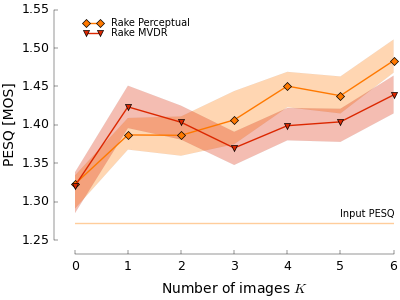
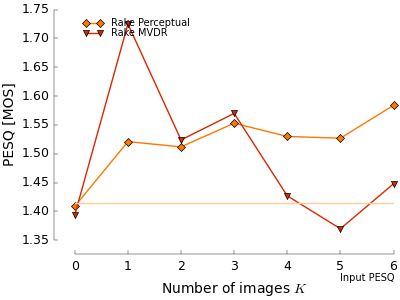
Amended README to add PESQ compilation instructions, as well as section on experimental results.

diff --git a/figure_Experiment.py b/figure_Experiment.py
@@ -222,16 +222,7 @@ if __name__ == '__main__':
     # This is the location of simulated/measured RIRs
     #################################################
 
-    rir_type = 'measured'
-    #rir_type = 'simulated'
-
-    if rir_type == 'measured':
-        data_folder = 'Experiment_Data/'
-    elif rir_type == 'simulated':
-        data_folder = 'Raven/'
-    else:
-        raise NameError('RIR type needs to be ''measured'' or ''simulated''.')
-
+    data_folder = 'BC329_RIR_8kHz/'
 
     # read in room size, microphones and sources locations
     ######################################################
@@ -264,39 +255,28 @@ if __name__ == '__main__':
     # PREPARE PARAMETERS
     ####################
 
-    if rir_type == 'measured':
+    Loops = np.minimum(n_src*(n_src-1), Loops)
+    
+    good_src_index = np.zeros(Loops)
+    bad_src_index = np.zeros(Loops)
+    good_source = np.zeros((sources.shape[0], Loops))
+    bad_source = np.zeros((sources.shape[0], Loops))
+    from itertools import product
+    i = 0
+    for s1,s2 in product(np.arange(n_src),np.arange(n_src)):
 
-        Loops = np.minimum(n_src*(n_src-1), Loops)
-        
-        good_src_index = np.zeros(Loops)
-        bad_src_index = np.zeros(Loops)
-        good_source = np.zeros((sources.shape[0], Loops))
-        bad_source = np.zeros((sources.shape[0], Loops))
-        from itertools import product
-        i = 0
-        for s1,s2 in product(np.arange(n_src),np.arange(n_src)):
+        if i == Loops:
+            break
 
-            if i == Loops:
-                break
+        if s1 == s2:
+            continue
+        else:
+            good_src_index[i] = s1
+            good_source[:,i] = sources[:,s1]
+            bad_src_index[i] = s2
+            bad_source[:,i] = sources[:,s2]
+            i += 1
 
-            if s1 == s2:
-                continue
-            else:
-                good_src_index[i] = s1
-                good_source[:,i] = sources[:,s1]
-                bad_src_index[i] = s2
-                bad_source[:,i] = sources[:,s2]
-                i += 1
-
-
-    elif rir_type == 'simulated':
-
-        Loops = np.minimum(n_src/2, Loops)
-
-        good_src_index = np.arange(n_src/2)
-        bad_src_index = np.arange(n_src/2,n_src)
-        good_source = sources[:,:n_src/2]
-        bad_source = sources[:,n_src/2:]
 
     # room dimension and location RIR files really just need to
     # to be repeated in an array
@@ -352,7 +332,7 @@ if __name__ == '__main__':
     pesq_bf = np.array([o[1] for o in out])
 
     # save the simulation results to file
-    filename = 'data/quality_' + rir_type + '_rir_' + time.strftime('%Y%m%d-%H%M%S') + '.npz'
+    filename = 'data/quality_measured_rir_' + time.strftime('%Y%m%d-%H%M%S') + '.npz'
     np.savez_compressed(filename, good_source=good_source, bad_source=bad_source,
             good_src_index=good_src_index, bad_src_index=bad_src_index,
             pesq_bf=pesq_bf, pesq_input=pesq_input)

diff --git a/README.md b/README.md
@@ -113,6 +113,36 @@ The spectrogram of all samples as well as the desired sound are provided.
 The samples and the spectrograms are created by the script `figure_spectrogam_and_samples.py`.
 
 
+Measured Room Impulse Responses
+-------------------------------
+
+Beyond the simulation results presented in the paper, the raking beamformers
+were validated with room impulse responses (RIR) measured in a classroom at
+EPFL. The RIR are stored as wav files in `BC329_RIR_8kHz/RIRs` and the
+methodology for the measurements is outlined in `BC329_RIR_8kHz/README.md`.
+
+The RIR were measured for a static linear array of 8 microphones spaced by 8
+cm. RIRs were measured for 12 different source positions. In the validation all
+132 combinations of desired/interfering sources are tested. Sound propagation
+is simulated by convolving speech samples with the RIR. 
+
+Using the measured room dimension and locations of sources, as well as
+approximate reflection coefficients for the walls, both Rake MVDR and Rake
+Perceptual beamformers are computed. The output of the beamformers is evaluated
+with respect to the clean desired speech signal using the perceptual evaluation
+of speech quality (PESQ) metric.
+
+Even though the calibration of room characteristics, microphones, and speakers locations
+was only approximate, we observe the same kind of thread than in the pure SINR simulation.
+That is speech quality is improved by using extra reflections in the room.
+
+<img src="https://raw.githubusercontent.com/LCAV/TimeDomainAcousticRakeReceiver/master/figures/pesq_measured_rir.png">
+
+The simulation can be run as `ipython figure_Experiment.py 132` and the output of the
+simulation can be plotted using `ipython figure_Experiment_plot.py` (with optional
+simulation output filename argument).
+
+
 Extra Scripts
 -------------
 
@@ -138,6 +168,84 @@ Dependencies
 * Computations are very heavy and we use the
   [MKL](https://store.continuum.io/cshop/mkl-optimizations/) extension of
   Anaconda to speed things up. There is a [free license](https://store.continuum.io/cshop/academicanaconda) for academics.
+* An implementation of PESQ is needed to run `figure_Experiment.py`. In a pinch, the reference
+  implementation of the ITU can be used. To compile it follow the instructions.
+
+### PESQ Tool
+
+Download the [source files](http://www.itu.int/rec/T-REC-P.862-200511-I!Amd2/en) 
+of the ITU P.862 compliance tool from the ITU website.  Follow the instructions
+to compile the tool and copy the executable produced in the `bin` directory.
+
+#### Unix compilation (Linux/Mac OS X)
+
+Execute the following sequence of commands to get to the source code.
+
+    mkdir PESQ
+    cd PESQ
+    wget 'https://www.itu.int/rec/dologin_pub.asp?lang=e&id=T-REC-P.862-200511-I!Amd2!SOFT-ZST-E&type=items'
+    unzip dologin_pub.asp\?lang\=e\&id\=T-REC-P.862-200511-I\!Amd2\!SOFT-ZST-E\&type\=items
+    cd Software
+    unzip 'P862_annex_A_2005_CD  wav final.zip'
+    cd P862_annex_A_2005_CD/source/
+
+In the `Software/P862_annex_A_2005_CD/source/` directory, create a file called `Makefile` and copy
+the following into it.
+
+    CC=gcc
+    CFLAGS=-O2
+
+    OBJS=dsp.o pesqdsp.o pesqio.o pesqmod.o pesqmain.o
+    DEPS=dsp.h pesq.h pesqpar.h
+
+    %.o: %.c $(DEPS)
+      $(CC) -c -o $@ $< $(CFLAGS)
+
+    pesq: $(OBJS)
+      $(CC) -o $@ $^ $(CFLAGS)
+
+    .PHONY : clean
+    clean :
+      -rm pesq $(OBJS)
+
+Execute compilation by typing this.
+
+    make pesq
+
+Finally move the `pesq` binary to `<repo_root>/bin/`.
+
+Notes:
+* The files input to the pesq utility must be 16 bit PCM wav files.
+* File names longer than 14 characters (suffix included) cause the utility to
+  crash with the message `Abort trap(6)` or similar.
+
+#### Windows compilation
+
+1. Open visual studio, create a new project from existing files and select the directory
+  containing the source code of PESQ (`Software\P862_annex_A_2005_CD\source\`).
+
+          FILE -> New -> Project From Existing Code...
+
+2. Select `Visual C++` from the dropdown menu, then next.
+    * *Project file location* : directory containing source code of pesq (`Software\P862_annex_A_2005_CD\source\`).
+    * *Project Name* : pesq
+    * Then next.
+    * As *project type*, select `Console application` project.
+    * Then finish.
+
+3. Go to
+
+          BUILD -> Configuration Manager...
+
+    and change active solution configuration from `Debug` to `Release`. Then Close.
+
+4. Then 
+
+          BUILD -> Build Solution
+
+5. Copy the executable `Release\pesq.exe` to the bin folder.
+
+*(tested with Microsoft Windows Server 2012)*
 
 
 Systems Tested

diff --git a/bin/README.md b/bin/README.md
@@ -1,0 +1,4 @@
+Binary Blobs
+===============
+
+Put the PESQ binary blob in this directory.
